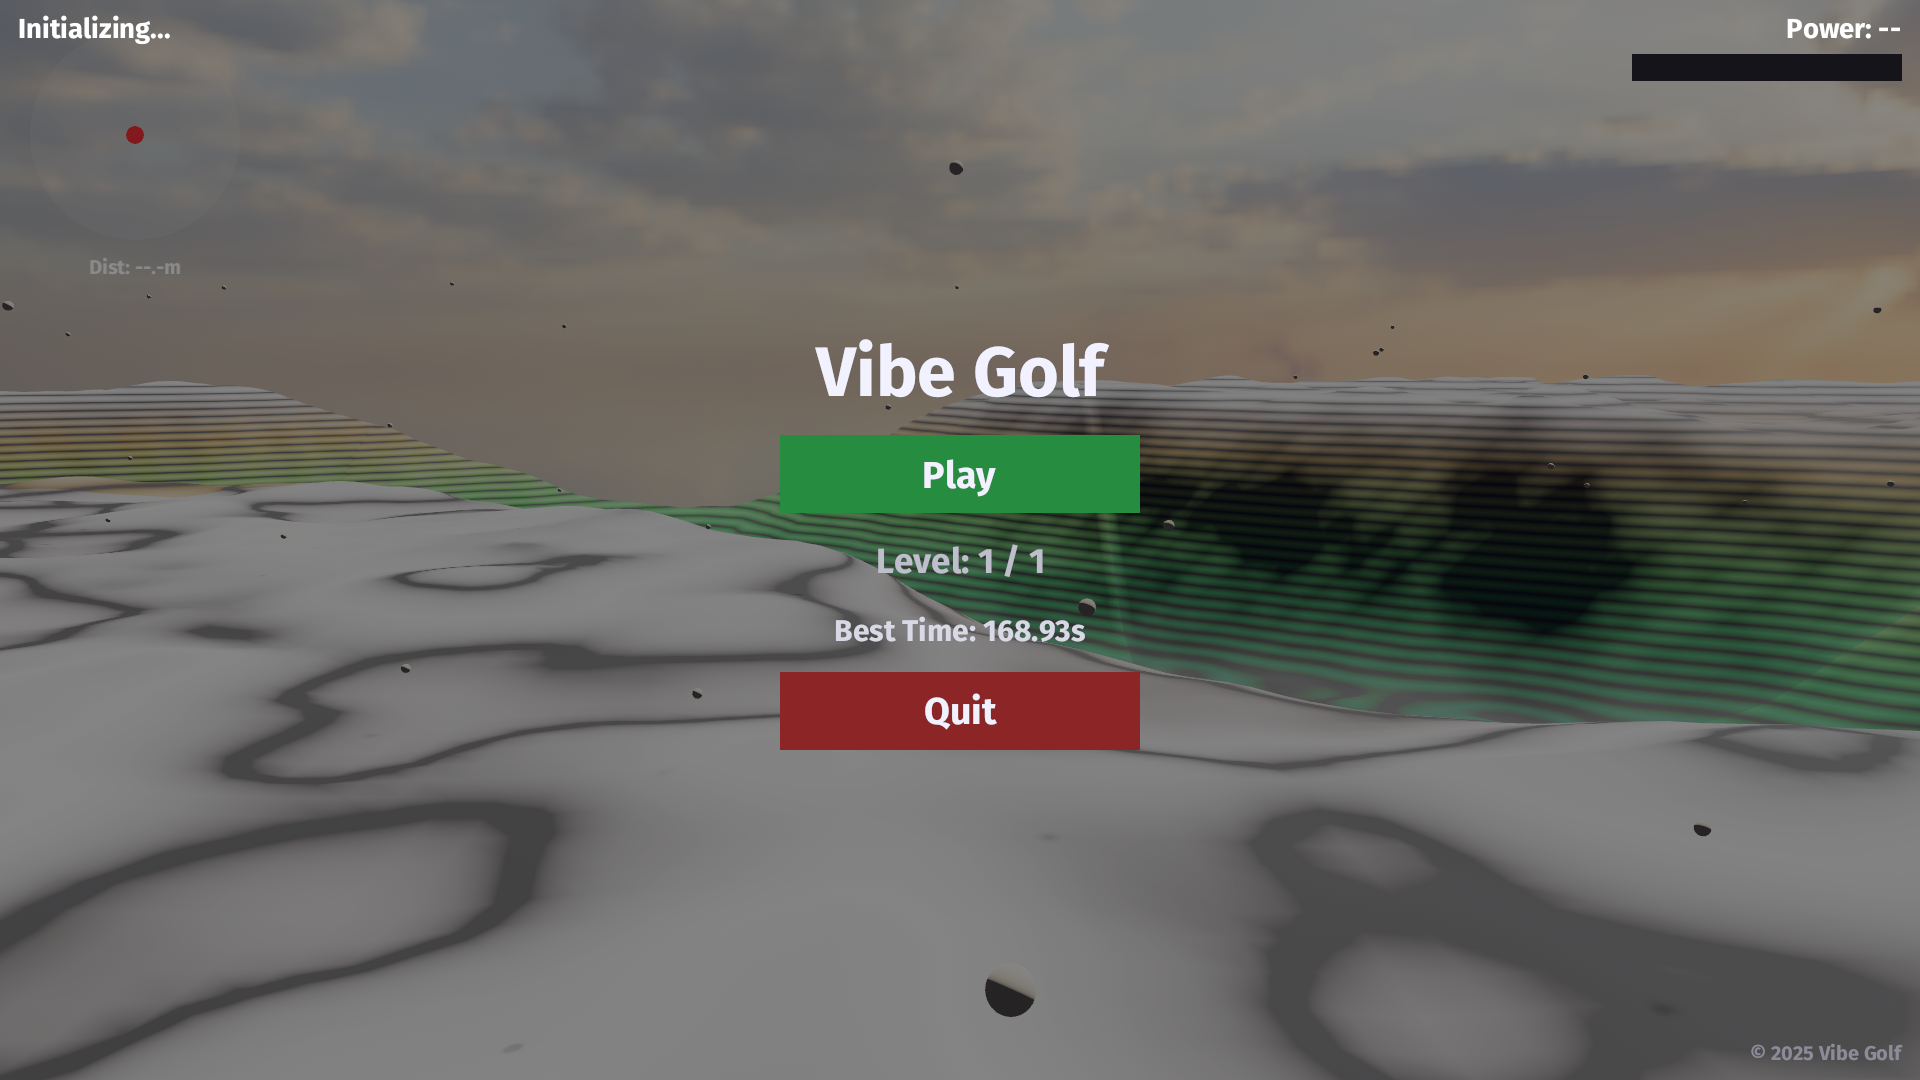
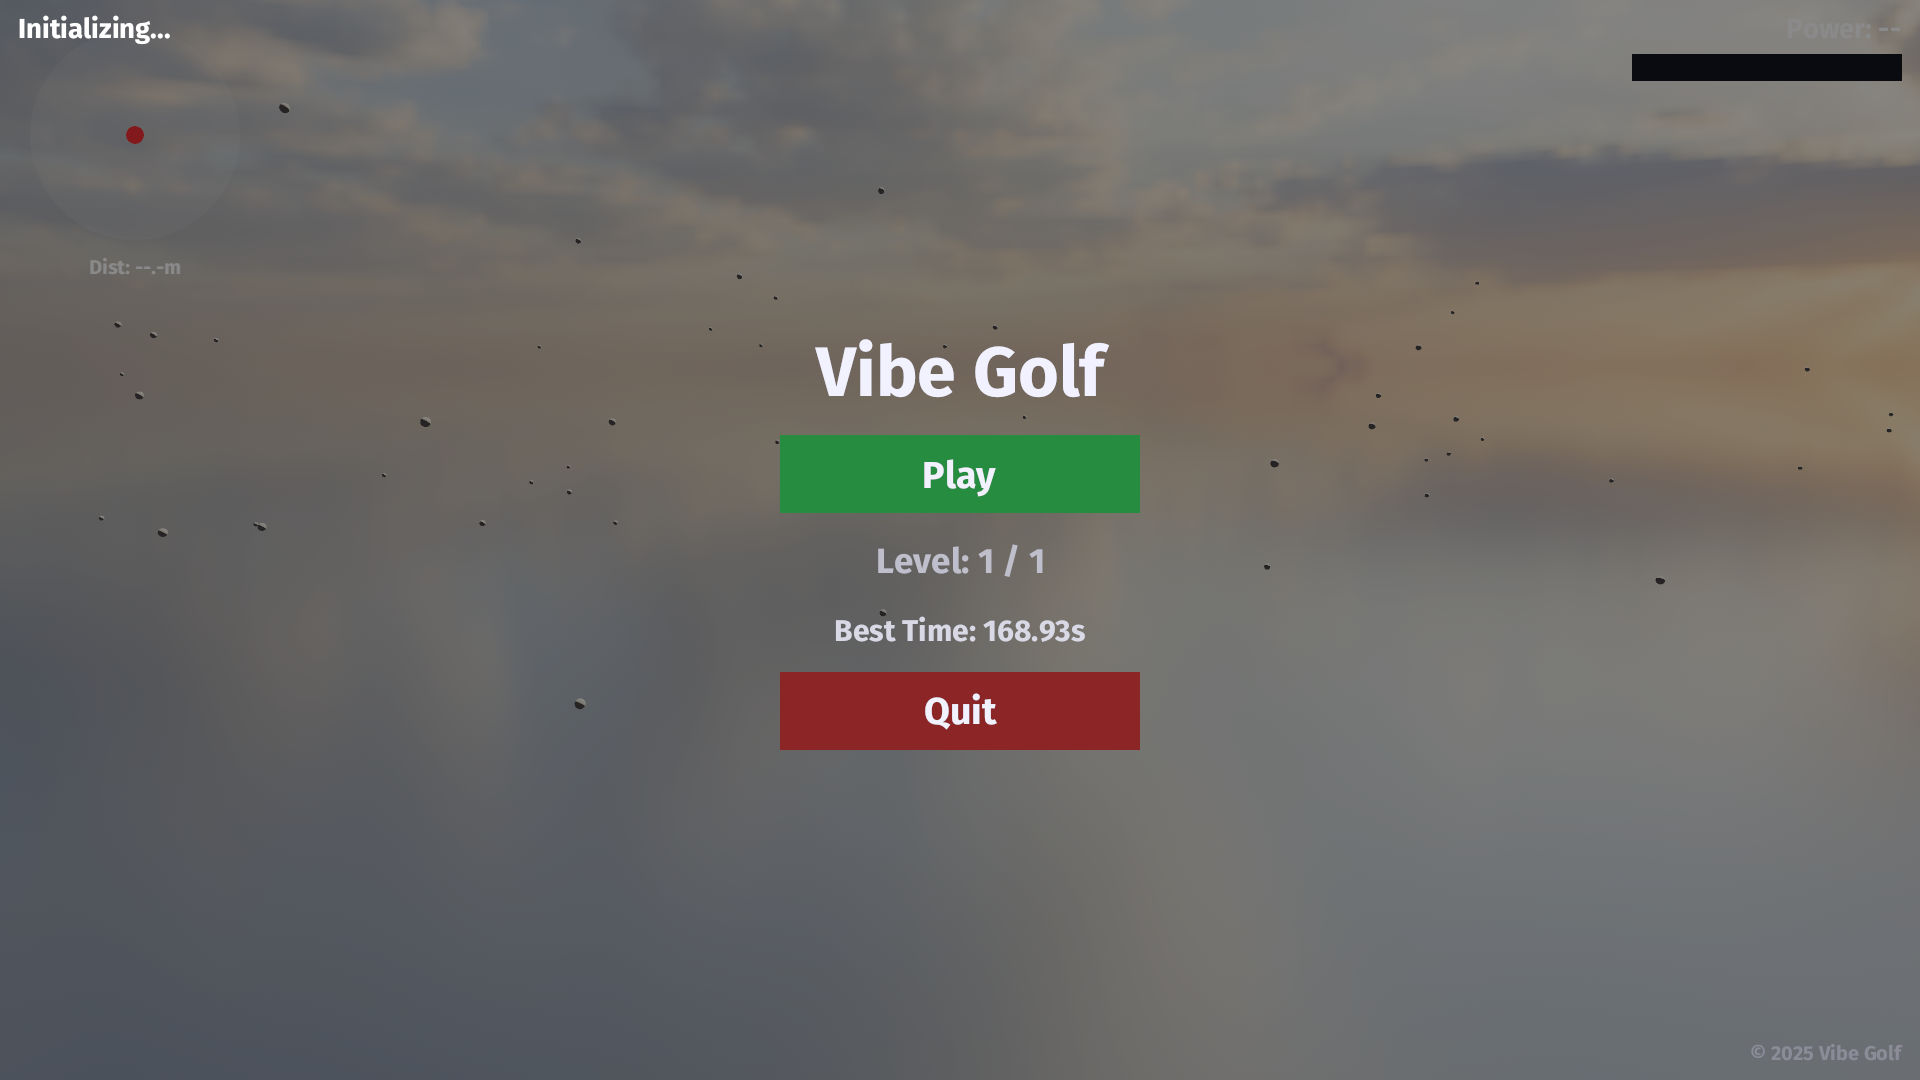
improved clip plane

diff --git a/src/plugins/level.rs b/src/plugins/level.rs
@@ -143,6 +143,11 @@ fn spawn_level(
     commands.spawn((
         Camera3dBundle {
             transform: cam_start,
+            projection: PerspectiveProjection {
+                near: 0.05,
+                far: 25000.0,
+                ..Default::default()
+            }.into(),
             ..default()
         },
         OrbitCamera,
